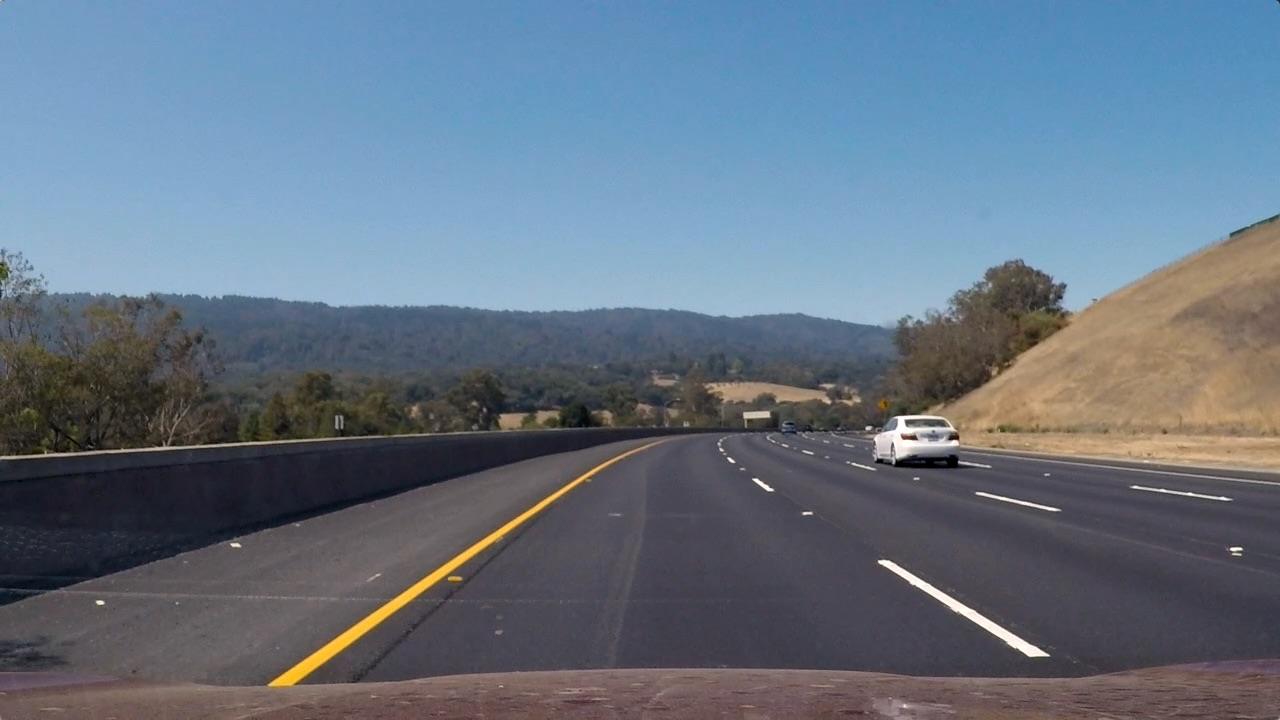
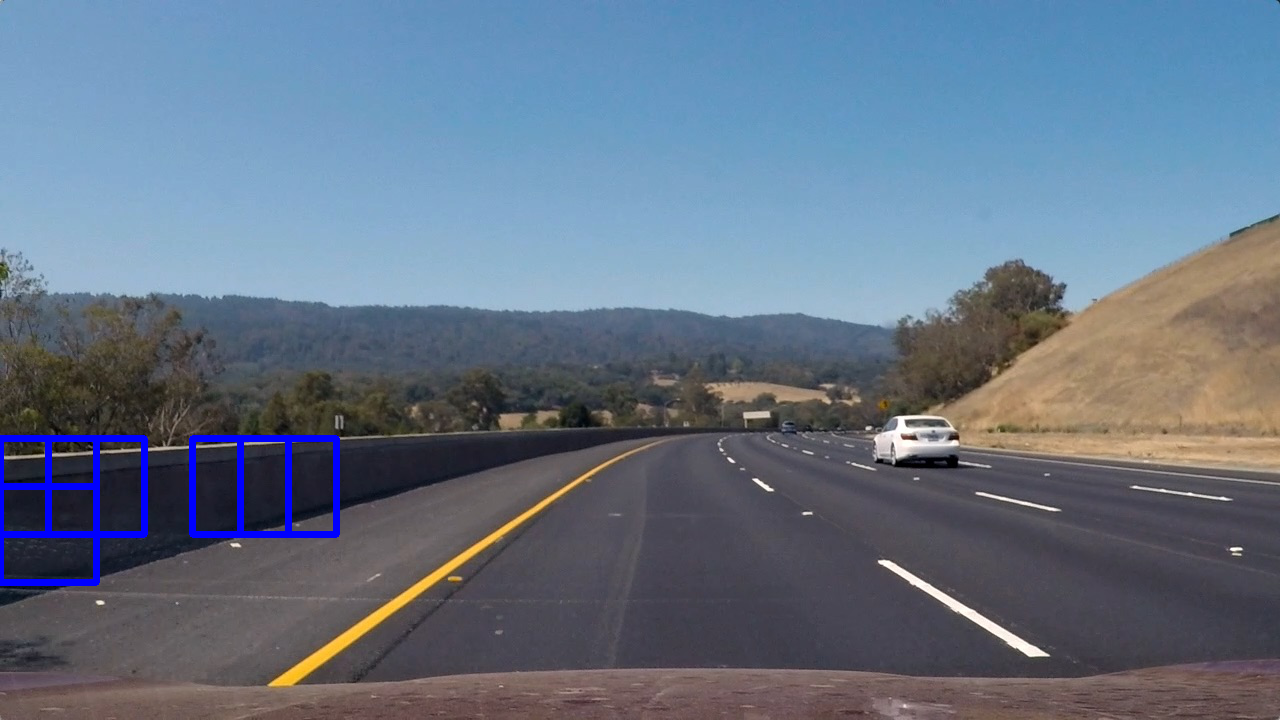
fix feature discrepancy

Changed region(s): [[0.0, 0.5806, 0.2812, 0.825]]

diff --git a/cars.py b/cars.py
@@ -1,17 +1,16 @@
-import numpy as np
-import cv2
-import matplotlib.pyplot as plt
-import matplotlib.image as mpimg
-import time
-from sklearn.svm import LinearSVC
-from sklearn.preprocessing import StandardScaler
-from sklearn.model_selection import train_test_split
-from skimage.feature import hog
 import glob
+import time
+
+import cv2
+import matplotlib.image as mpimg
+import numpy as np
+from skimage.feature import hog
+from sklearn.model_selection import train_test_split
+from sklearn.preprocessing import StandardScaler
+from sklearn.svm import LinearSVC
 
 
 def generate_feature_map():
-
     # import car images
     images_cars = glob.glob('training_data/car/*/*.png')
     cars = []
@@ -23,7 +22,7 @@ def generate_feature_map():
     notcars = []
     for notcar_image in images_notcars:
         notcars.append(notcar_image)
-    hog_data = {"orient":9, "pix_per_cell": 8, "cell_per_block": 2}
+    hog_data = {"orient": 9, "pix_per_cell": 8, "cell_per_block": 2}
     car_features = extract_features(cars, hog_data, cspace='RGB', spatial_size=(32, 32),
                                     hist_bins=32, hist_range=(0, 256))
     notcar_features = extract_features(notcars, hog_data, cspace='RGB', spatial_size=(32, 32),
@@ -49,7 +48,7 @@ def train_feature_map(feature_map, feature_labels):
     X_train, X_test, y_train, y_test = train_test_split(
         feature_map, feature_labels, test_size=0.2, random_state=rand_state)
 
-    #print('Using spatial binning of:', spatial, 'and', histbin, 'histogram bins')
+    # print('Using spatial binning of:', spatial, 'and', histbin, 'histogram bins')
     print('Feature vector length:', len(X_train[0]))
     # Use a linear SVC
     svc = LinearSVC()
@@ -92,7 +91,7 @@ def color_hist(img, nbins=32, bins_range=(0, 256)):
 
 # Define a function to return HOG features and visualization
 def get_hog_features(img, orient, pix_per_cell, cell_per_block,
-                        vis=False, feature_vec=True):
+                     vis=False, feature_vec=True):
     # Call with two outputs if vis==True
     if vis == True:
         features, hog_image = hog(img, orientations=orient, pixels_per_cell=(pix_per_cell, pix_per_cell),
@@ -106,12 +105,14 @@ def get_hog_features(img, orient, pix_per_cell, cell_per_block,
                        visualise=vis, feature_vector=feature_vec)
         return features
 
-    # Define a function to extract features from a single image window
-    # This function is very similar to extract_features()
-    # just for a single image rather than list of images
+        # Define a function to extract features from a single image window
+        # This function is very similar to extract_features()
+        # just for a single image rather than list of images
+
+
 def single_img_features(img, color_space='RGB', spatial_size=(32, 32),
                         hist_bins=32, orient=9,
-                        pix_per_cell=8, cell_per_block=2, hog_channel=0,
+                        pix_per_cell=8, cell_per_block=2, hog_channel="ALL",
                         spatial_feat=True, hist_feat=True, hog_feat=True):
     # 1) Define an empty list to receive features
     img_features = []
@@ -160,7 +161,7 @@ def single_img_features(img, color_space='RGB', spatial_size=(32, 32),
 # Define a function to extract features from a list of images
 # Have this function call bin_spatial() and color_hist()
 def extract_features(imgs, hog_data, cspace='RGB', spatial_size=(32, 32),
-                     hist_bins=32, hist_range=(0, 256),):
+                     hist_bins=32, hist_range=(0, 256), ):
     # Create a list to append feature vectors to
     features = []
 
@@ -184,11 +185,11 @@ def extract_features(imgs, hog_data, cspace='RGB', spatial_size=(32, 32),
         # Call get_hog_features() with vis=False, feature_vec=True
         hog_features = []
         for channel in range(feature_image.shape[2]):
-            hog_features.append(get_hog_features(feature_image[:,:,channel],
+            hog_features.append(get_hog_features(feature_image[:, :, channel],
                                                  hog_data["orient"],
                                                  hog_data["pix_per_cell"],
                                                  hog_data["cell_per_block"],
-                                vis=False, feature_vec=True))
+                                                 vis=False, feature_vec=True))
         hog_features = np.ravel(hog_features)
 
         # Apply bin_spatial() to get spatial color features
@@ -204,43 +205,43 @@ def extract_features(imgs, hog_data, cspace='RGB', spatial_size=(32, 32),
 # Define a function you will pass an image
 # and the list of windows to be searched (output of slide_windows())
 def search_windows(img, windows, clf, scaler, color_space='RGB',
-                    spatial_size=(32, 32), hist_bins=32,
-                    hist_range=(0, 256), orient=9,
-                    pix_per_cell=8, cell_per_block=2,
-                    hog_channel=0, spatial_feat=True,
-                    hist_feat=True, hog_feat=True):
-
-    #1) Create an empty list to receive positive detection windows
+                   spatial_size=(32, 32), hist_bins=32,
+                   hist_range=(0, 256), orient=9,
+                   pix_per_cell=8, cell_per_block=2,
+                   hog_channel="ALL", spatial_feat=True,
+                   hist_feat=True, hog_feat=True):
+    # 1) Create an empty list to receive positive detection windows
     on_windows = []
-    #2) Iterate over all windows in the list
+    # 2) Iterate over all windows in the list
     for window in windows:
-        #3) Extract the test window from original image
+        # 3) Extract the test window from original image
         test_img = cv2.resize(img[window[0][1]:window[1][1], window[0][0]:window[1][0]], (64, 64))
-        #4) Extract features for that window using single_img_features()
+        # 4) Extract features for that window using single_img_features()
         features = single_img_features(test_img, color_space=color_space,
-                            spatial_size=spatial_size, hist_bins=hist_bins,
-                            orient=orient, pix_per_cell=pix_per_cell,
-                            cell_per_block=cell_per_block,
-                            hog_channel=hog_channel, spatial_feat=spatial_feat,
-                            hist_feat=hist_feat, hog_feat=hog_feat)
+                                       spatial_size=spatial_size, hist_bins=hist_bins,
+                                       orient=orient, pix_per_cell=pix_per_cell,
+                                       cell_per_block=cell_per_block,
+                                       hog_channel=hog_channel, spatial_feat=spatial_feat,
+                                       hist_feat=hist_feat, hog_feat=hog_feat)
 
-        #5) Scale extracted features to be fed to classifier
+        # 5) Scale extracted features to be fed to classifier
         test_features = scaler.transform(np.array(features).reshape(1, -1))
-        #6) Predict using your classifier
+        # 6) Predict using your classifier
         prediction = clf.predict(test_features)
-        #7) If positive (prediction == 1) then save the window
+        # 7) If positive (prediction == 1) then save the window
         if prediction == 1:
             on_windows.append(window)
-    #8) Return windows for positive detections
+    # 8) Return windows for positive detections
     return on_windows
+
 
 # Define a function that takes an image,
 # start and stop positions in both x and y,
 # window size (x and y dimensions),
 # and overlap fraction (for both x and y)
 def slide_window(img, x_start_stop=[None, None], y_start_stop=[None, None],
-                    xy_window=(64, 64), xy_overlap=(0.5, 0.5)):
-# If x and/or y start/stop positions not defined, set to image size
+                 xy_window=(64, 64), xy_overlap=(0.5, 0.5)):
+    # If x and/or y start/stop positions not defined, set to image size
     if x_start_stop[0] == None:
         x_start_stop[0] = 0
     if x_start_stop[1] == None:
@@ -253,13 +254,13 @@ def slide_window(img, x_start_stop=[None, None], y_start_stop=[None, None],
     xspan = x_start_stop[1] - x_start_stop[0]
     yspan = y_start_stop[1] - y_start_stop[0]
     # Compute the number of pixels per step in x/y
-    nx_pix_per_step = np.int(xy_window[0]*(1 - xy_overlap[0]))
-    ny_pix_per_step = np.int(xy_window[1]*(1 - xy_overlap[1]))
+    nx_pix_per_step = np.int(xy_window[0] * (1 - xy_overlap[0]))
+    ny_pix_per_step = np.int(xy_window[1] * (1 - xy_overlap[1]))
     # Compute the number of windows in x/y
-    nx_buffer = np.int(xy_window[0]*(xy_overlap[0]))
-    ny_buffer = np.int(xy_window[1]*(xy_overlap[1]))
-    nx_windows = np.int((xspan-nx_buffer)/nx_pix_per_step)
-    ny_windows = np.int((yspan-ny_buffer)/ny_pix_per_step)
+    nx_buffer = np.int(xy_window[0] * (xy_overlap[0]))
+    ny_buffer = np.int(xy_window[1] * (xy_overlap[1]))
+    nx_windows = np.int((xspan - nx_buffer) / nx_pix_per_step)
+    ny_windows = np.int((yspan - ny_buffer) / ny_pix_per_step)
     # Initialize a list to append window positions to
     window_list = []
     # Loop through finding x and y window positions
@@ -269,9 +270,9 @@ def slide_window(img, x_start_stop=[None, None], y_start_stop=[None, None],
     for ys in range(ny_windows):
         for xs in range(nx_windows):
             # Calculate window position
-            startx = xs*nx_pix_per_step + x_start_stop[0]
+            startx = xs * nx_pix_per_step + x_start_stop[0]
             endx = startx + xy_window[0]
-            starty = ys*ny_pix_per_step + y_start_stop[0]
+            starty = ys * ny_pix_per_step + y_start_stop[0]
             endy = starty + xy_window[1]
             # Append window position to list
             window_list.append(((startx, starty), (endx, endy)))
@@ -303,12 +304,12 @@ def detect(image):
     orient = 9
     pix_per_cell = 8
     cell_per_block = 2
-    hog_channel = 0
+    hog_channel = "ALL"
     spatial_feat = True
     hist_feat = True
     hog_feat = True
 
-    y_start_stop = (400, 740)
+    y_start_stop = [390, 720]
 
     windows = slide_window(image, x_start_stop=[None, None], y_start_stop=y_start_stop,
                            xy_window=(96, 96), xy_overlap=(0.5, 0.5))
